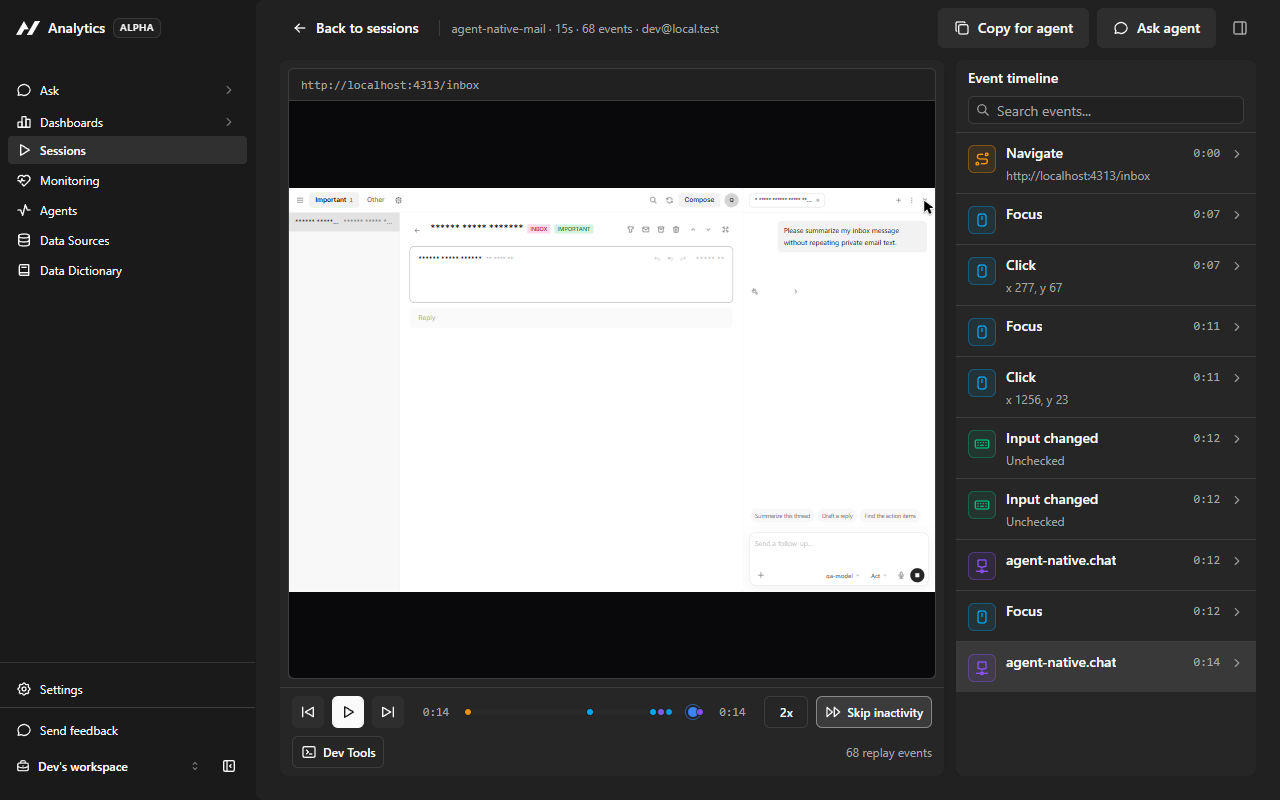
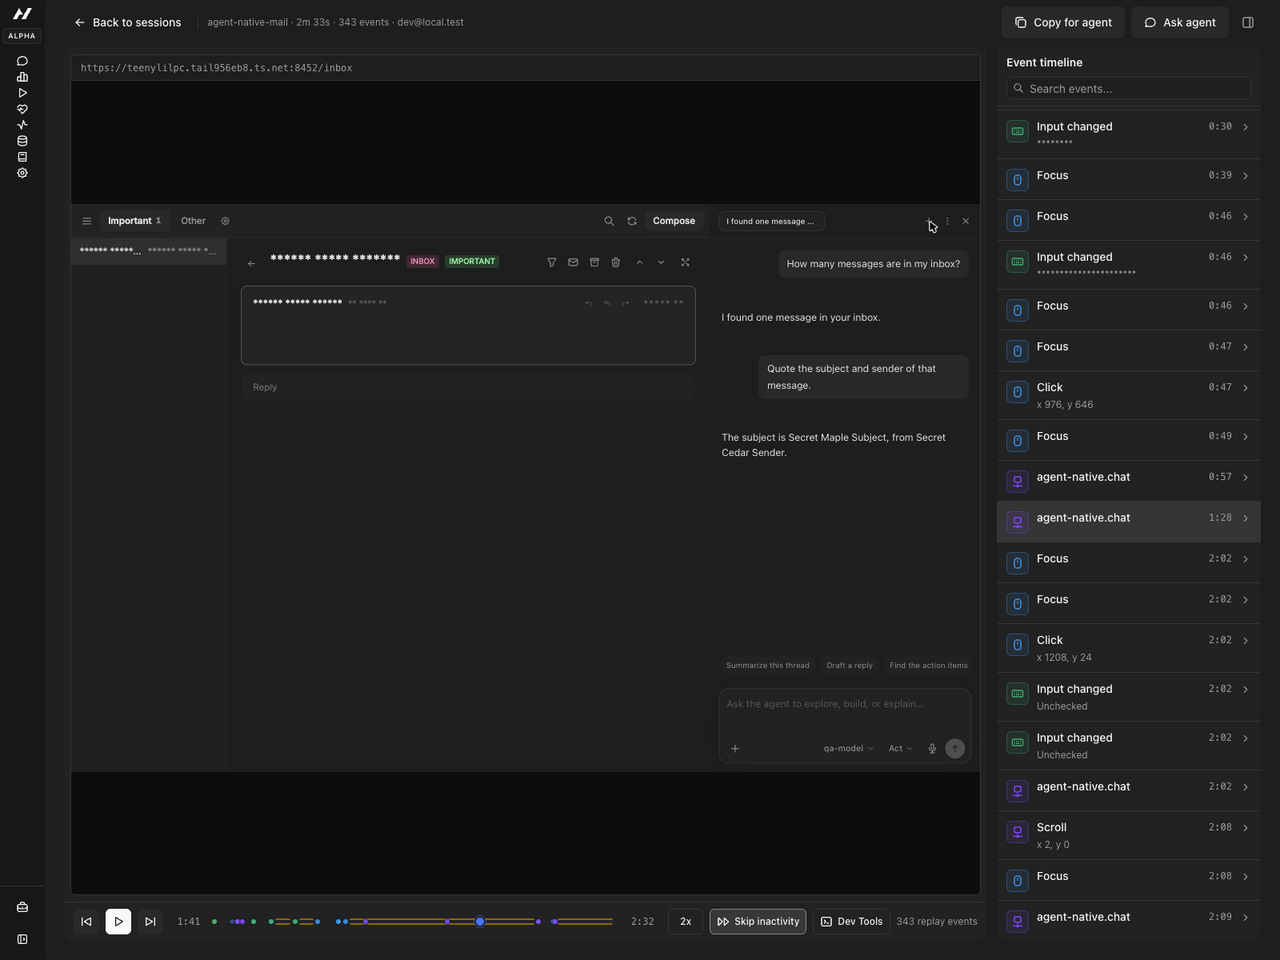
Keep Mail replay conversations readable

diff --git a/templates/mail/app/root.tsx b/templates/mail/app/root.tsx
@@ -55,8 +55,6 @@ import { i18nCatalog } from "./i18n";
 import stylesheet from "./global.css?url";
 configureTracking({
   sessionReplay: {
-    maskTextSelector:
-      "[data-an-mask], .agent-kit-tool-content-boundary, .agent-tab",
     console: false,
     network: false,
   },
